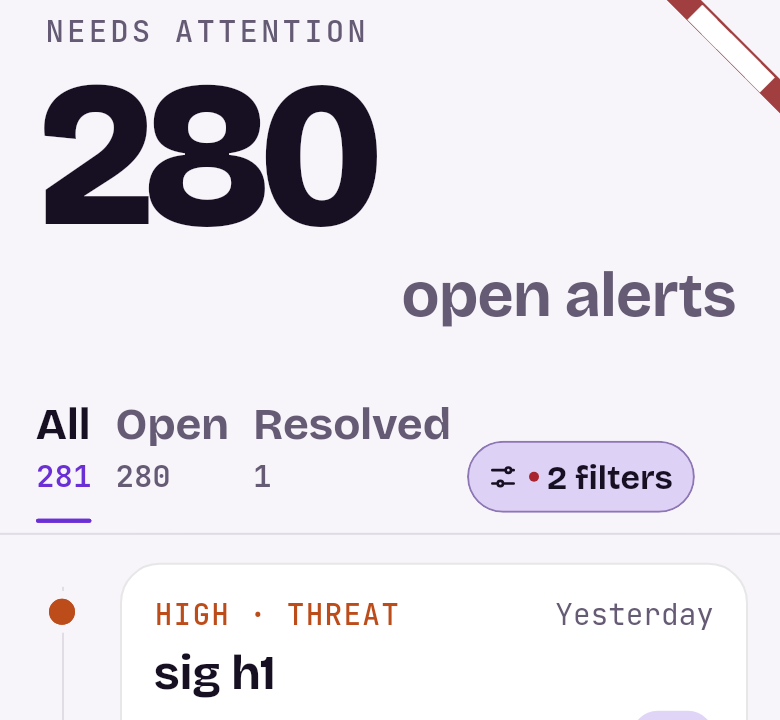
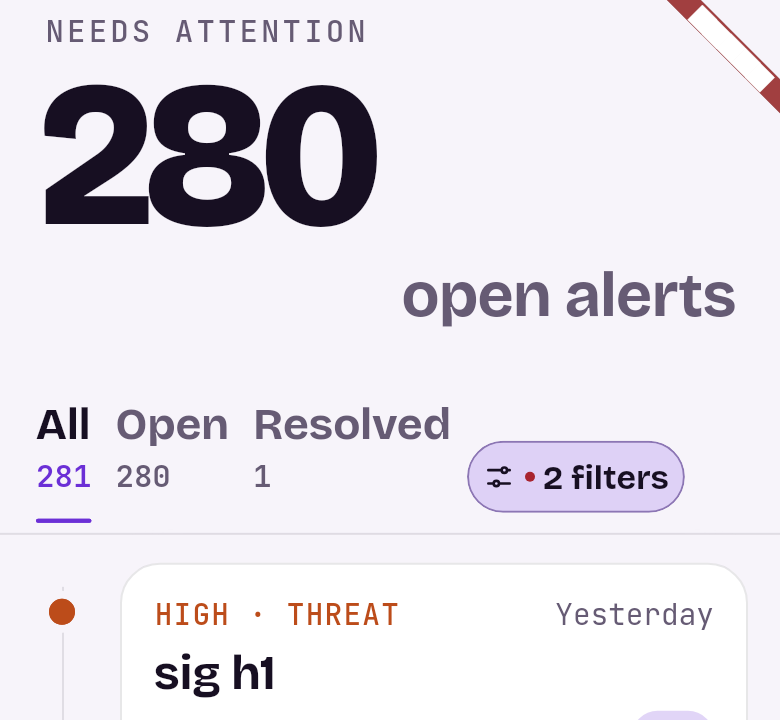
ui(alerts): centre Filter content, trim padding, align right edge to the cards
The Filter pill centres its icon+text within the fixed (2-filters) reserve, so
'Filter' no longer leaves a gap on the right; horizontal padding trimmed to 7.
Header right padding is 16 so the pill's right edge lines up with the alert
cards below. Width stays fixed and compact across states. Regenerated the two
review screenshots. Mobile 96 passed, analyze clean.

Changed region(s): [[0.6154, 0.6111, 0.8923, 0.7333]]

diff --git a/app/mobile/lib/screens/alerts/alert_list_screen.dart b/app/mobile/lib/screens/alerts/alert_list_screen.dart
@@ -261,7 +261,9 @@ class _AlertListScreenState extends State<AlertListScreen> {
         child: Container(
           alignment: Alignment.bottomCenter,
           decoration: BoxDecoration(border: Border(bottom: BorderSide(color: Ui.line))),
-          padding: const EdgeInsets.fromLTRB(18, 4, 12, 6),
+          // Right padding 16 so the Filter's right edge lines up with the alert
+          // cards below (which inset 16).
+          padding: const EdgeInsets.fromLTRB(18, 4, 16, 6),
           child: Row(
             crossAxisAlignment: CrossAxisAlignment.end,
             children: [
@@ -377,15 +379,20 @@ class _AlertListScreenState extends State<AlertListScreen> {
               radius: UiRadius.search,
               blur: 16,
               height: 36,
-              padding: const EdgeInsets.fromLTRB(9, 0, 10, 0),
+              padding: const EdgeInsets.symmetric(horizontal: 7),
               // Fixed, compact width across states: reserve the width of the
               // widest content ("2 filters"), so the pill never resizes between
-              // "Filter" and any count and the tabs keep every spare pixel.
+              // "Filter" and any count and the tabs keep every spare pixel. The
+              // icon+text are centred together within that width, so "Filter"
+              // doesn't leave a gap on the right.
               child: SizedBox(
                 width: _pillContentWidth(context),
-                child: _filterActive
-                    ? _pillRow(_filterSummary, dot: true)
-                    : _pillRow('Filter', dot: false),
+                child: Center(
+                  widthFactor: 1,
+                  child: _filterActive
+                      ? _pillRow(_filterSummary, dot: true)
+                      : _pillRow('Filter', dot: false),
+                ),
               ),
             ),
           ),
